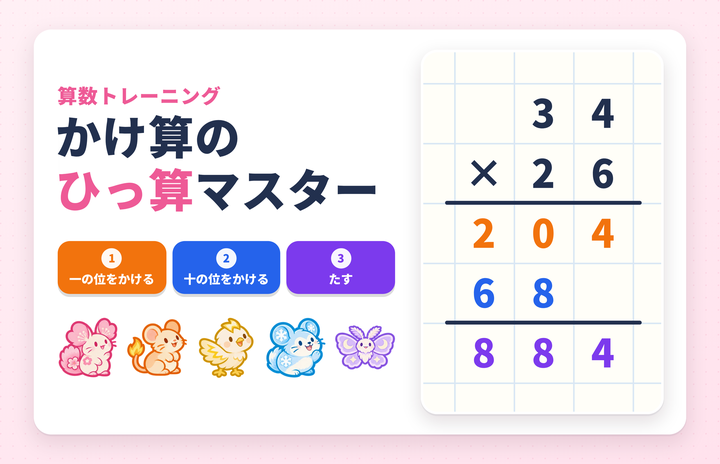
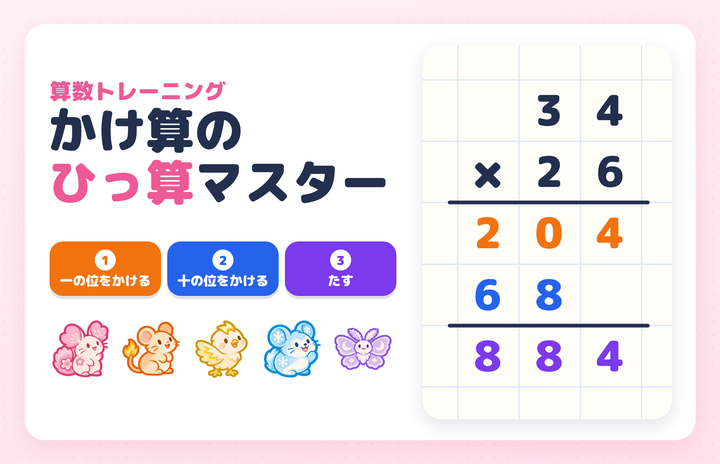
add

Changed region(s): [[0.0306, 0.0905, 0.9472, 0.9655], [0.5806, 0.1207, 0.9167, 0.9052], [0.9472, 0.0603, 0.9778, 0.9353]]

diff --git a/kakezanhissan/index.html b/kakezanhissan/index.html
@@ -179,15 +179,17 @@ button {
 .logo-mark.sc, .logo-mark.sc.match {
   border-color: transparent;
   background: radial-gradient(circle at 50% 42%, #fff 0 42%, #fff8fd 80%) padding-box,
-              linear-gradient(90deg, #f472b6, #fb923c, #facc15, #4ade80, #38bdf8, #a78bfa, #f472b6) border-box;
-  background-size: auto, 200% 100%;
+              linear-gradient(135deg, #f472b6, #fb923c, #facc15, #4ade80, #38bdf8, #a78bfa, #f472b6, #fb923c, #facc15, #4ade80, #38bdf8, #a78bfa, #f472b6) border-box;   /* 七色を 2回 くりかえす（ななめに ならべても つなぎ目が 出ない） */
+  background-size: auto, 100px 100px;
   background-repeat: no-repeat, repeat;
-  animation: scFlow 9s linear infinite;   /* わくの 七色が ゆっくり ながれる（まわりは 光らせない） */
+  animation: scFlowD 4.5s linear infinite;   /* わくの 七色が 右下から 左上へ ななめに ゆっくり ながれる（まわりは 光らせない） */
   box-shadow: 0 4px 0 #d8c8fb, 0 8px 16px rgba(34, 48, 78, .14);
 }
 /* とくべつな キャラクターは、わくの 中 いっぱいに 大きく */
 .logo-mark.sc .pet { inset: 2px; }
+@keyframes scFlowD { from { background-position: 0 0, 0 0; } to { background-position: 0 0, -50px -50px; } }
 @keyframes scFlow { from { background-position: 0 0, 0% 0; } to { background-position: 0 0, 200% 0; } }
+.zk-item.sc .pet { left: 3%; right: 3%; top: 3%; bottom: 4%; }   /* ずかんの とくべつな キャラクターは、ます いっぱいに 大きく */
 .zk-course.sc h4 { background: linear-gradient(90deg, #f472b6, #fb923c, #eab308, #22c55e, #0ea5e9, #8b5cf6); text-shadow: 0 1px 1px rgba(0, 0, 0, .25); }
 .logo-mark.has-new .newbadge { display: block; }
 .logo-mark.has-new::before {
@@ -2752,10 +2754,9 @@ function openZukan() {
     scMine.forEach(id => {
       const b = document.createElement('button');
       b.type = 'button';
-      b.className = 'zk-item' + (('sc:' + id) === fav ? ' fav' : '');
+      b.className = 'zk-item sc' + (('sc:' + id) === fav ? ' fav' : '');
       b.dataset.k = 'sc:' + id;
       b.innerHTML = '<span class="pet"></span>';
-      b.querySelector('.pet').style.bottom = '8%';
       makeSc(b.querySelector('.pet'), id);
       b.addEventListener('click', () => chooseFav('sc:' + id));
       grid.appendChild(b);

diff --git a/warizanhissan/index.html b/warizanhissan/index.html
@@ -180,15 +180,17 @@ button {
 .logo-mark.sc, .logo-mark.sc.match {
   border-color: transparent;
   background: radial-gradient(circle at 50% 42%, #fff 0 42%, #fff8fd 80%) padding-box,
-              linear-gradient(90deg, #f472b6, #fb923c, #facc15, #4ade80, #38bdf8, #a78bfa, #f472b6) border-box;
-  background-size: auto, 200% 100%;
+              linear-gradient(135deg, #f472b6, #fb923c, #facc15, #4ade80, #38bdf8, #a78bfa, #f472b6, #fb923c, #facc15, #4ade80, #38bdf8, #a78bfa, #f472b6) border-box;   /* 七色を 2回 くりかえす（ななめに ならべても つなぎ目が 出ない） */
+  background-size: auto, 100px 100px;
   background-repeat: no-repeat, repeat;
-  animation: scFlow 9s linear infinite;   /* わくの 七色が ゆっくり ながれる（まわりは 光らせない） */
+  animation: scFlowD 4.5s linear infinite;   /* わくの 七色が 右下から 左上へ ななめに ゆっくり ながれる（まわりは 光らせない） */
   box-shadow: 0 4px 0 #d8c8fb, 0 8px 16px rgba(34, 48, 78, .14);
 }
 /* とくべつな キャラクターは、わくの 中 いっぱいに 大きく */
 .logo-mark.sc .pet { inset: 2px; }
+@keyframes scFlowD { from { background-position: 0 0, 0 0; } to { background-position: 0 0, -50px -50px; } }
 @keyframes scFlow { from { background-position: 0 0, 0% 0; } to { background-position: 0 0, 200% 0; } }
+.zk-item.sc .pet { left: 3%; right: 3%; top: 3%; bottom: 4%; }   /* ずかんの とくべつな キャラクターは、ます いっぱいに 大きく */
 .zk-course.sc h4 { background: linear-gradient(90deg, #f472b6, #fb923c, #eab308, #22c55e, #0ea5e9, #8b5cf6); text-shadow: 0 1px 1px rgba(0, 0, 0, .25); }
 .logo-mark.has-new .newbadge { display: block; }
 .logo-mark.has-new::before {
@@ -2775,10 +2777,9 @@ function openZukan() {
     scMine.forEach(id => {
       const b = document.createElement('button');
       b.type = 'button';
-      b.className = 'zk-item' + (('sc:' + id) === fav ? ' fav' : '');
+      b.className = 'zk-item sc' + (('sc:' + id) === fav ? ' fav' : '');
       b.dataset.k = 'sc:' + id;
       b.innerHTML = '<span class="pet"></span>';
-      b.querySelector('.pet').style.bottom = '8%';
       makeSc(b.querySelector('.pet'), id);
       b.addEventListener('click', () => chooseFav('sc:' + id));
       grid.appendChild(b);
